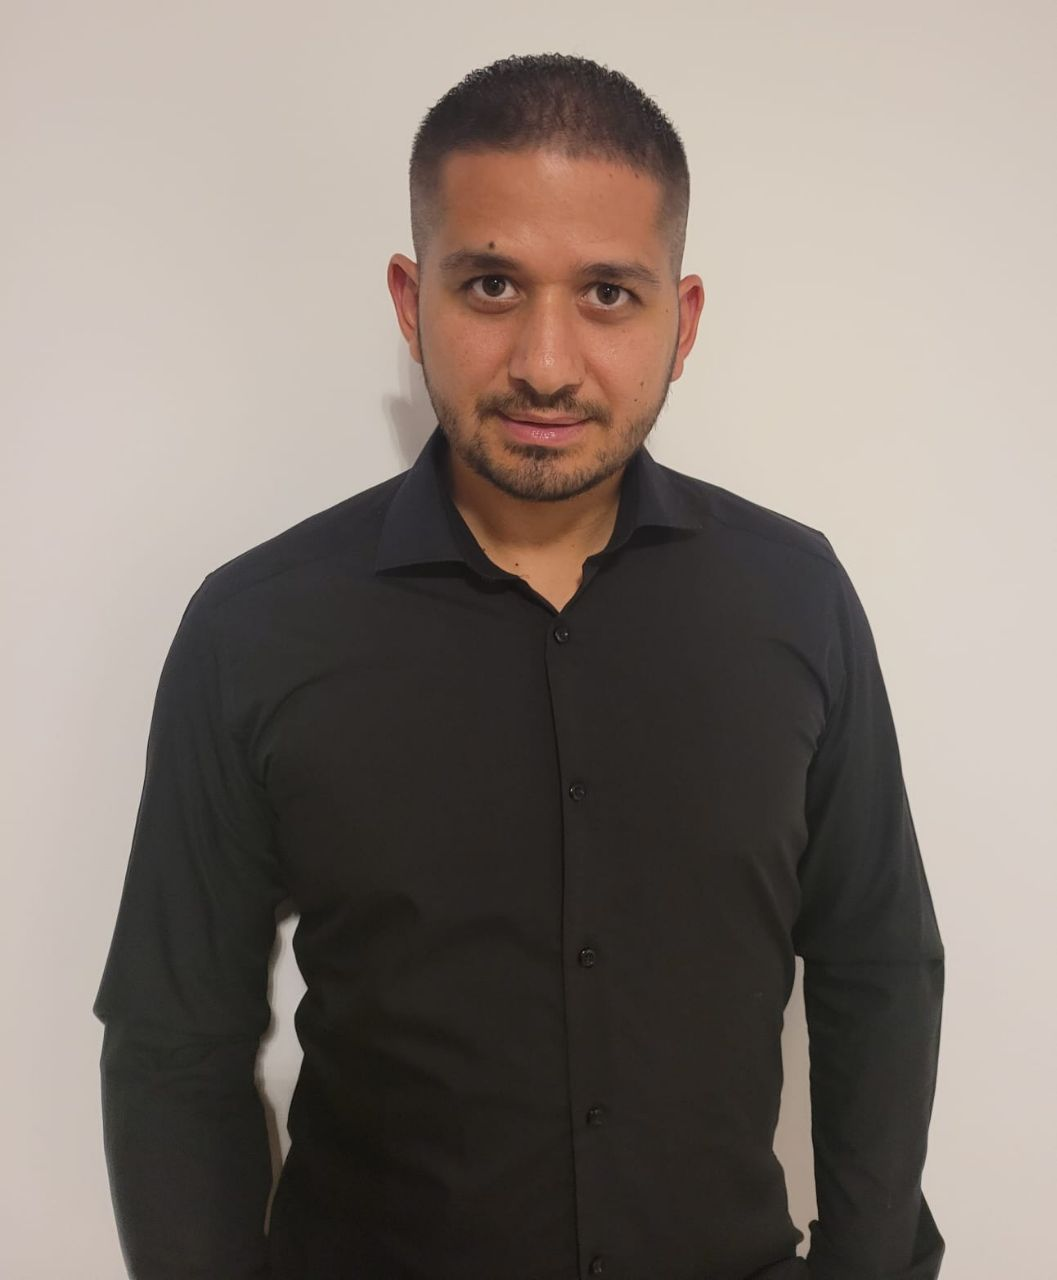
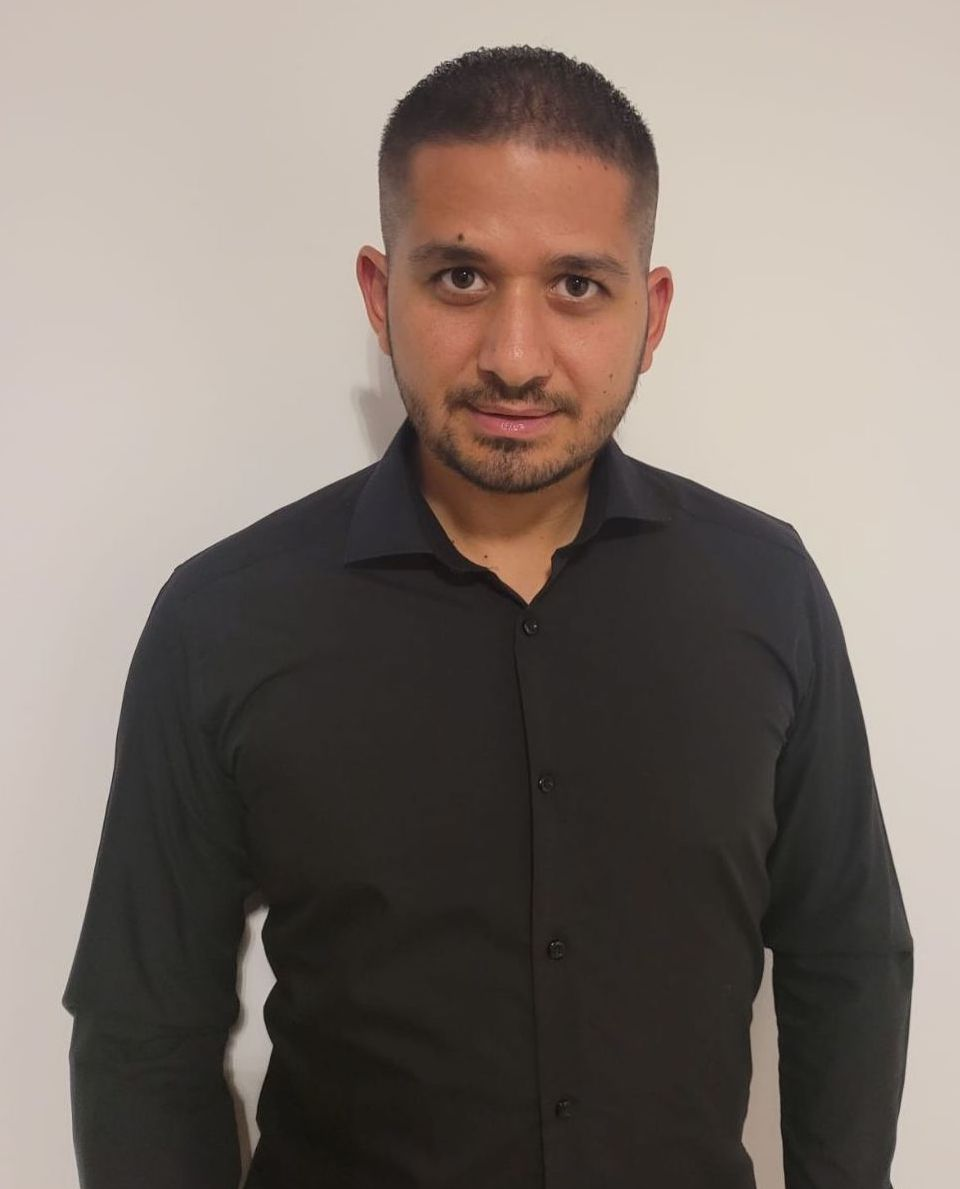
upd founders

diff --git a/components/Team/Team.tsx b/components/Team/Team.tsx
@@ -18,7 +18,7 @@ const teamInfo = [
     name: 'Matt Haynes',
     position: 'Chief Blockchain Operations Officer',
     linkdIn: 'https://www.linkedin.com/in/matthaynesblockchain/',
-    photo: '/images/team/matt_haynes.png',
+    photo: '/images/team/matt_haynes.jpg',
     description:
       'Matt Haynes is a serial web entrepreneur with a marketing and operations background. He also comes with significant experience in construction management systems and occupational health and safety providing him with an ideal hybrid of skill sets for this kind of startup. Matt, in addition to Dan, was also a Co-Founder at MoonBoots Capital and has worked in the structural organization for early-stage startups, equities, and Web3 venture capital. He brings a wealth of knowledge in operations, blockchain, and fundraising.',
   },
